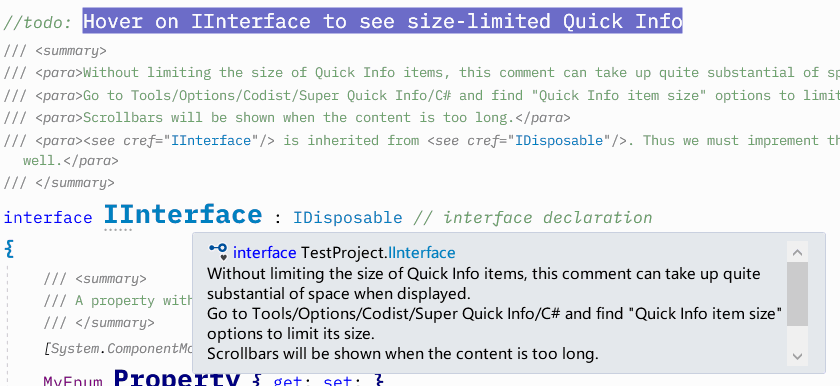
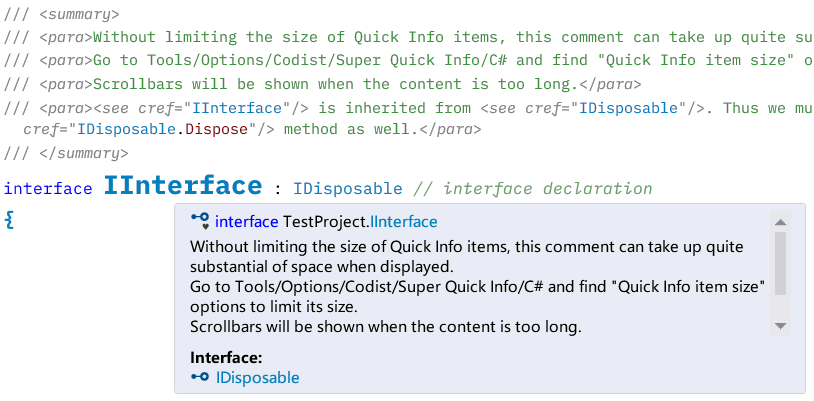
Version 3.8: + C# symbol marker + Color Quick Info + Better themed interface - Fixed crashes

Changed region(s): [[0.0, 0.0, 1.0, 1.0], [0.7678, 0.342, 1.0, 0.3731], [0.0, 0.6218, 0.0307, 0.6839]]

diff --git a/Codist/CodistPackage.cs b/Codist/CodistPackage.cs
@@ -14,7 +14,7 @@ namespace Codist
 	/// <para>The project consists of the following namespace: <see cref="SyntaxHighlight"/> backed by <see cref="Classifiers"/>, <see cref="SmartBars"/>, <see cref="QuickInfo"/>, <see cref="Margins"/>, etc.</para>
 	/// </summary>
 	[PackageRegistration(UseManagedResourcesOnly = true, AllowsBackgroundLoading = true)]
-	[InstalledProductRegistration("#110", "#112", "3.7", IconResourceID = 400)] // Information on this package for Help/About
+	[InstalledProductRegistration("#110", "#112", "3.8", IconResourceID = 400)] // Information on this package for Help/About
 	[Guid(PackageGuidString)]
 	[ProvideOptionPage(typeof(Options.General), Constants.NameOfMe, "General", 0, 0, true)]
 	[ProvideOptionPage(typeof(Options.SuperQuickInfo), CategorySuperQuickInfo, "General", 0, 0, true, Sort = 10)]

diff --git a/Codist/Margins/CSharpMembersMargin.cs b/Codist/Margins/CSharpMembersMargin.cs
@@ -215,7 +215,7 @@ namespace Codist.Margins
 				var memberLevel = 0;
 				var memberType = CodeMemberType.Root;
 				var lastLabel = Double.MinValue;
-				SnapshotPoint rangeFrom = default(SnapshotPoint), rangeTo = default(SnapshotPoint);
+				SnapshotPoint rangeFrom = default, rangeTo = default;
 
 				foreach (var tag in tags) {
 					if (_Element._Cancellation.IsCancellationRequested) {

diff --git a/TestProject/TestPage.cs b/TestProject/TestPage.cs
@@ -16,7 +16,7 @@ namespace TestProject
 		public virtual void VirtualMethod() { } // virtual method
 		void IDisposable.Dispose() { } // explicit interface implementation
 	}
-	sealed class ConcreteClass : AbstractClass
+	sealed class ConcreteClass : AbstractClass, IInterface
 	{
 		// note hover on the "{" below to see line count of this method block
 		/// <summary>

diff --git a/Codist/Properties/AssemblyInfo.cs b/Codist/Properties/AssemblyInfo.cs
@@ -11,4 +11,4 @@ using System.Runtime.InteropServices;
 [assembly: AssemblyCulture("")]
 [assembly: ComVisible(false)]
 [assembly: AssemblyVersion("3.0.0.0")]
-[assembly: AssemblyFileVersion("3.7.0.2057")]
+[assembly: AssemblyFileVersion("3.8.0.2068")]

diff --git a/README.md b/README.md
@@ -1,15 +1,15 @@
 # Codist
-*Codist* is a visual studio extension which strives to provide better coding experience for C# programmers. It features:
+*Codist* is a visual studio extension which strives to provide better coding experience for C# programmers.
+
+# Features and screenshots
 
 * Advanced syntax highlight with *comment tagger*
 * Super Quick Info with *Click and Go* to source code
-* Smart Bar (**new in version 3.0**)
+* Smart Bar (**new in version 3.0**) with symbol reference analyzers
 * Scrollbar markers
 * Extra margin between lines
 
 ![Feature overview](doc/preview.png)
-
-# Features and screenshots
 
 ## Advanced C# syntax highlight
 
@@ -18,24 +18,21 @@
   The following screenshots of the `TestPage.cs` file in the source code project demonstrates possible syntax highlight effects.
 
   * The font size of type and member declarations can be enlarged, so it is much easier to spot them.
-  * Interface, Class, Struct and Enum names have different colors.
-  * Some elements, such as `Enum` names, `virtual` or `override` members, can be painted with specific style, indicating that they are special.
-  * The attribute declarations can be dimmed.
-  * Static fields have underlines.
+  * Syntax highlight can be applied to braces and parentheses.
+  * Various syntax identifiers have different styles.
+  * Comment content can be tagged.
   * Unnecessary code is marked strike-through.
-  * Control flow related keywords (`return`, `throw`, `break`, `continue`, `yield` and `goto`) are highlighted with a different style.
-  * Abstraction related keywords (`sealed`, `override`, `virtual`, etc) can be highlighted with an other style.
+  * Keywords are categorized and highlighted with various styles.
+  * Overriding methods (such as `ToString`) can be painted with gradient background color.
   * All the above styles are customizable.
  
-  ![Syntax highlight](doc/highlight1.png)
-  ![Syntax highlight](doc/highlight2.png)
-  ![Syntax highlight](doc/highlight3.png)
+  ![Syntax highlight](doc/highlight1.png) 
 
   **NOTE**: To quickly get started with advanced syntax highlight, navigate to the *Syntax Highlight* section, click the *Light theme* or *Dark theme* button in the *options* dialog and see them in effect. Don't forget to click the *OK* button to confirm the change.
 
   ![Load Theme](doc/load-theme.png)
 
-  To customize and tweak the syntax highlight effects, click the *common syntax* tab in the *syntax highlight* section, or click the sub sections inside the *Syntax Highlight* section to change individual styles, accordingly.
+  To customize and tweak the syntax highlight styles, click the *common syntax* tab in the *syntax highlight* section, or click the sub sections inside the *Syntax Highlight* section to change individual styles, accordingly.
 
   ![Style customization](doc/syntax-highlight.png)
 
@@ -50,8 +47,9 @@ The quick info (the tooltip shown when you hover your mouse pointer on your C# s
   The default quick info built in Visual Studio can be enhanced with:
   1. Size restriction
   2. Click and go to symbols
-  3. XML Documentation override, with XML Doc inheritance, `<return>` exposure
-  4. Hide Quick Info until Shift is pressed
+  3. XML Documentation override, with XML Doc inheritance, `<return>` and `<remarks>` displayed
+  4. More info like selection length, color preview, etc.
+  5. Hide Quick Info until Shift is pressed
 
 * **Size restriction** 
 
@@ -81,7 +79,7 @@ The quick info (the tooltip shown when you hover your mouse pointer on your C# s
 
   ![Super Quick Info 12](doc/super-quick-info-12.png)
 
-    It is possible to show documentation about the `<return>` values.
+    It is possible to show documentation about the `<returns>` and `<remarks>` content.
 
   ![Super Quick Info 13](doc/super-quick-info-13.png)
 
@@ -121,6 +119,10 @@ The quick info (the tooltip shown when you hover your mouse pointer on your C# s
 
   ![Super Quick Info 9](doc/super-quick-info-9.png)
 
+* **Color info** shows colors as you hover on a name that might be predefined color values.
+
+  ![Super Quick Info - Color](doc/super-quick-info-color.png)
+
 ## Comment tagger and styles
 * The comment tagger highlights comments to your specific styles, according to the first token inside the comment.
 
@@ -140,7 +142,8 @@ The quick info (the tooltip shown when you hover your mouse pointer on your C# s
 
 The scrollbar can mark...
 
-* C# `class`/`struct`/`interface`/`enum` **declarations** (marked with the first two capitalized characters in their names)
+* C# `class`/`struct`/`interface`/`enum` **declarations** (marked with a square and their names)
+* C# symbol references (marked with an aqua square)
 * C# instructions (`#if`, `#else`, `#region`, `#pragma`) (marked with a gray spot)
 * **Line numbers** (marked with gray dashed lines and numbers)
 * Special comments (marked with small squares)
@@ -158,6 +161,10 @@ It brings commonly used operations for the selection.
 Buttons on the *Smart Bar* changes from contexts.
 
   ![Smart Bar](doc/smart-bar-2.png)
+
+From version 3.7 on, when you select a symbol and click the *Analyze references...* button, a menu will pop up showing possible symbol reference analysis commands.
+
+  ![Smart Bar Symbol Analysis](doc/smart-bar-symbol-analysis.png)
 
 # Feature control
   Open the *Codist* section in the *Tools->Options* dialog. In the *General* section you can toggle features of *Codist*.
